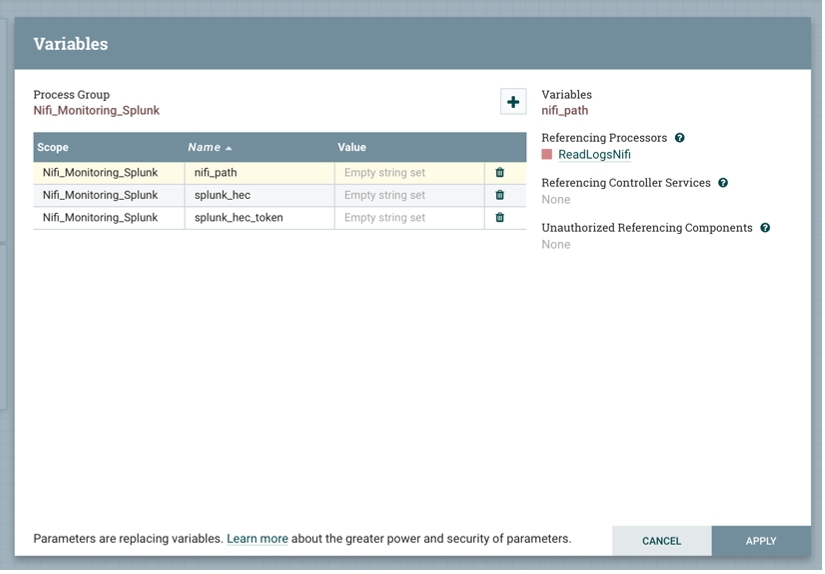
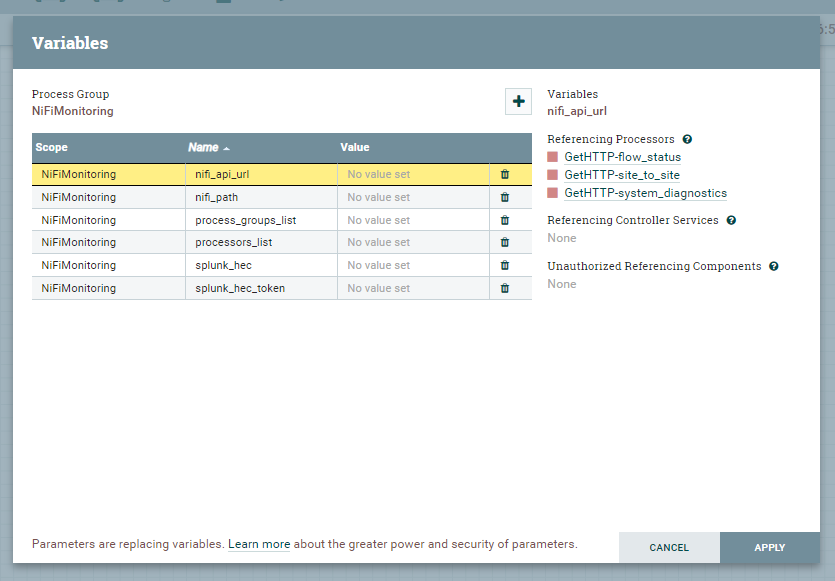
updated documentation

Changed region(s): [[0.0, 0.0, 1.0, 1.0], [0.0303, 0.0592, 0.1515, 0.0889], [0.9091, 0.9181, 0.9394, 0.9477]]

diff --git a/docs/configuration.es.md b/docs/configuration.es.md
@@ -1,28 +1,53 @@
-# Configuración de NIFI
+# Configuración de NiFi Monitoring Splunk
 
-En esta etapa se detallarán todos los pasos necesarios que se deben realizar por el lado de nuestras instancias nifi que se quieren monitorear.
+En esta etapa se detallarán los pasos necesarios para el correcto funcionamiento del aplicativo NiFi Monitoring Splunk
 
 Hay dos vías de configuración que permiten el envío de eventos a Splunk y su elección dependerá de los mecanismos de autenticación que NIFI tenga habilitado.
 
-- Envío directo: Esta configuración establecerá NIFI como la vía principal para el envío de datos a Splunk y debe ser utilizada cuando NIFI no tenga activado métodos de autenticación.
+1. Envío directo: Esta configuración establecerá NIFI como la vía principal para el envío de datos a Splunk por medio de un conjunto de procesadores y debe ser utilizada cuando NIFI no tenga activado métodos de autenticación.
 
-- Data Input NIFI: Splunk se encargará de realizar peticiones a las instancias de NIFI para rescatar la información del Monitoring API por medio de la habilitación y uso del Data Input NIFI. Esta configuración debe ser utilizada cuando NIFI cuente con autenticación basica.
+2. Splunk Data Input NiFi: Splunk se encargará de realizar peticiones a las instancias de NIFI para rescatar la información del Monitoring API por medio de la habilitación y uso del Data Input NIFI. Esta configuración debe ser utilizada cuando NIFI cuente con autenticación basica.
 
-## Carga del flujo NiFi
-El flujo nifi encargado de procesar y enviar los datos al splunk puede ser configurado de dos maneras: como un flow definition o como template.
+[NOTA] Configura sólo una metodología, ambas en funcionamiento generarán información duplicada.
 
-## NiFi Flow Definition
+## 1. Envío Directo
 
-El archivo Flow Definition es la estructura del grupo de proceso para el monitoreo de NiFi en Splunk y formato JSON el cual puede ser directamente importado.
-Descarga y utiliza esta definición para la configuración del NiFi Monitoring a través de este link [NifiMonitoring](https://github.com/kudawdev/nifi-monitoring-splunk/blob/main/template/NifiMonitoring.json)
+### Configuración de HTTP Event Collector (HEC) en Splunk
 
-## Carga del flow definition
+Se necesita la configuración de un recopilador de eventos HTTP (HEC). Esto permite enviar eventos desde las instancias de nifi a una implementación de Splunk a través de los protocolos HTTP y HTTPS.
 
-Podrás cargar el flow definition arrastrando una caja de process group al lienzo de NiFi
+Para configurar, en el menú de Splunk selecciona Settings > Data Inputs. En el listado de Local Inputs identifica HTTP Event Collector y agrega uno nuevo.
+
+En el proceso de configuración deberás:
+
+- Asignar un nombre para el data input,
+- Establecer el sourcetype en **automático**,
+- Seleccionar el *App Context* **NIFI Monitoring** y finalmente
+- Seleccionar el Index donde se almacenarán los datos.
+
+Se recomienda utilizar un Index dedicado para este monitoreo. Si no existe, deberás crearlo previo a esta configuración.
+
+Al finalizar la configuración de este Event Collector se creará un Token Value, el cual es necesario para luego configurar el envío de datos desde NIFI.
+
+Proceso de configuración:
+
+![image](/nifi-monitoring-splunk/assets/images/splunk/add_hec_1.png)
+
+![image](/nifi-monitoring-splunk/assets/images/splunk/add_hec_2.png)
+
+![image](/nifi-monitoring-splunk/assets/images/splunk/add_hec_3.png)
+
+### Importar Flow Definition en NIFI
+
+Descarga y utiliza el Flow Definition proporciado para la configuración de NiFi Monitoring a través de este link [NifiMonitoring](https://github.com/kudawdev/nifi-monitoring-splunk/blob/main/template/NifiMonitoring.json). También podrás encontrar este archivo dentro de la carpeta **flow_definition** del proyecto.
+
+El archivo Flow Definition es la estructura de un grupo de procesos encargado de recolectar y ejecutar el envío de datos de NIFI al Splunk. Está en formato JSON el cual puede ser directamente importado. 
+
+Para importar el Flow Definition, arrastra una caja de process group al lienzo de NiFi
 
 ![image](/nifi-monitoring-splunk/assets/images/nifi/1_add_process_group.png)
 
-En la ventana emergente, selecciona el ícono de importación, busca en tu equipo y selecciona el flow definition a importar.
+En la ventana emergente, selecciona el ícono de importación, busca en tu equipo y selecciona el flow definition NiFiMonitoring.json para importar.
 
 ![image](/nifi-monitoring-splunk/assets/images/nifi/2_import_flow_definition.png)
 
@@ -39,59 +64,25 @@ Finalmente, verás el grupo de procesadores y en su interior contiene la siguien
 
 ![image](/nifi-monitoring-splunk/assets/images/nifi/4_flow_definition_loaded.png)
 
-## Template
+### Configuración de variables globales
 
-Descarga y utiliza el template proporciado para la configuración de NiFi Monitoring a través de este link [NifiMonitoringTemplate](https://github.com/kudawdev/nifi-monitoring-splunk/blob/main/template/NifiMonitoringTemplate.xml). También podrás encontrar este archivo dentro de la carpeta **template** del proyecto.
-
-## Carga de template
-
-Podrás cargar el template desde la caja lateral Operate o haciendo clic derecho sobre una zona vacía y seleccionar la opción Upload template.
-
-![image](/nifi-monitoring-splunk/assets/images/nifi/add_template.png)
-
-En la ventana emergente busque en su equipo y seleccione el template que utilizará.
-
-![image](/nifi-monitoring-splunk/assets/images/nifi/upload_template.png)
-
-## Selección de Template
-
-Para utilizar el template que fue previamente cargado, arrastre del menú la opción template a la hoja de trabajo. Se abrirá una ventana emergente y seleccione el template a utilizar.
-
-![image](/nifi-monitoring-splunk/assets/images/nifi/select_template.png)
-
-![image](/nifi-monitoring-splunk/assets/images/nifi/choose_template.png)
-
-El template desplegado debe tener la siguiente estructura:
-
-- La primera vista contiene Nifi_Monitoring_Splunk
-
-![image](/nifi-monitoring-splunk/assets/images/nifi/nifi_monitoring_process_group.png)
-
-En su interior contiene la siguiente estructura:
-
--	Ingesta API
--	Ingesta Logs
--	Ingesta ReportingTask
-
-![image](/nifi-monitoring-splunk/assets/images/nifi/nifi_monitoring_process_group_2.png)
-
-
-## Configuración de variables globales
-
-Es fundamental configurar las variables globales ya que son indispensable para su funcionamiento. Para configurar los parámetros haga clic derecho sobre la caja Nifi_Monitoring_Splunk > Variables.
+Configura las variables globales ya que son indispensable para su funcionamiento. Para configurar los parámetros haz clic derecho sobre la caja NiFIMonitoring > Variables.
 
 ![image](/nifi-monitoring-splunk/assets/images/nifi/set_variable.png)
 
-Se desplegará una ventana emergente donde tendrá que configurar los siguientes parámetros:
+Se desplegará una ventana emergente donde tendrás que configurar los siguientes parámetros:
 
-- nifi_path: Corresponde a la ruta de instalación del servidor nifi (en caso de cluster debe estar instalado en la misma ruta en cada nodo). Ejemplo: /home/nifi/nifi-1.10.0/
-- splunk_hec: Es la dirección del servidor splunk donde se configuró el data input HTTP Event Collector. Ejemplo: 127.0.0.1:8088
+- nifi_api_url: Corresponde a la ruta del API Rest de NIFI, (Ej: http://127.0.0.1:8080/nifi-api)
+- nifi_path: Corresponde a la ruta de instalación del servidor nifi (en caso de cluster debe estar instalado en la misma ruta en cada nodo). (Ej: /home/nifi/nifi-1.10.0/)
+- process_groups_list: Listado de **IDs** de los grupos de procesos que se necesitan monitorear.
+- processors_list: Listado de **IDs** de los procesadores que se necesitan monitorear.
+- splunk_hec: Es la dirección del servidor splunk donde se configuró el data input HTTP Event Collector. (Ej: http://splunk1:8088/)
 - splunk_hec_token: Token obtenido al configurar [HTTP Event Collector](/nifi-monitoring-splunk/es/installation/#configuracion-de-http-event-collector-hec).
 
 ![image](/nifi-monitoring-splunk/assets/images/nifi/set_variable_2.png)
 
 
-## Configuración de componentes
+### Configuración de componentes
 
 Posterior a la configuración de las variables es necesario crear los siguientes componentes. Para configurar accede a Nifi Settings desde el menú > controller Settings
 
@@ -150,11 +141,11 @@ Configura los reporting task con la siguiente información:
 
 ![image](/nifi-monitoring-splunk/assets/images/nifi/metrics_reporting_task.png)
 
-Una vez configurados los reporting task deberá iniciar la ejecución haciendo click start (►) en cada uno de ellos.
+Una vez configurados los reporting task deberás iniciar la ejecución haciendo click start (►) en cada uno de ellos.
 
 ![image](/nifi-monitoring-splunk/assets/images/nifi/nifi_settings_4.png)
 
-## Habilitación del envío de datos
+### Habilitación del envío de datos
 
 Luego de haber completado todo el proceso de configuración, inicie la ejecución del grupo de procesos. Haga clic derecho sobre el grupo de procesos y luego en Start.
 
@@ -164,29 +155,7 @@ Luego de haber completado todo el proceso de configuración, inicie la ejecució
 
 Sí toda la configuración se ejecutó de manera correcta, se iniciará el envío de la información a Splunk. Para que los datos enviados a splunk estén accesibles desde la aplicación deberá haber configurado el [Lookup de Instancias](/nifi-monitoring-splunk/es/installation/#configuracion-de-lookup-nifi-instances)
 
-## Configuración de Data Input NIFI
-
-Para configurar el Data Input Nifi tiene que haber completado la carga y selección de template, Configuración de Variables y Configuración de Componentes.
-
-Si finalizó el paso Habilitación del Envío de Datos o si el grupo de procesos está en ejecución, deberá detenerlo. Para ello, haz clic derecho sobre el grupo de procesos y luego en Stop. Esta acción detendrá el envío de información a Splunk
-
-![image](/nifi-monitoring-splunk/assets/images/nifi/disable_sending_data.png)
-
-### Deshabilitación del grupo de procesos Monitoring – API
-Haz doble clic sobre el grupo y deberá ver la siguiente vista
-
-![image](/nifi-monitoring-splunk/assets/images/nifi/disable_monitoring_api.png)
-
-Para deshabilitar Monitoring API, haz clic derecho sobre la primera caja y luego clic en Disable, el componente deberá verse así:
-
-![image](/nifi-monitoring-splunk/assets/images/nifi/disable_monitoring_api_2.png)
-
-Una vez deshabilitado, regresa a la vista anterior. Haz clic derecho sobre una zona vacía y luego en leave group o en la banda inferior en NiFi Flow.
-
-
-![image](/nifi-monitoring-splunk/assets/images/nifi/leave_group.png)
-
-### Configuración del Data Input Nifi - Splunk
+## 2. Configuración del Data Input Nifi en Splunk
 
 *Esta configuración debe ser aplicada cuando las instancias de NIFI cuenten con almenos autenticación básica*
 
@@ -214,3 +183,56 @@ Se desplegará el siguiente formulario. Marque la casilla More settings para hab
 - Interval: Tiempo en segundos en el que se realizarán las peticiones para extraer la información.
 - Host: Nombre del host de nifi, el cual debe corresponder a lo definido en el Lookup de Configuraciones. [Ver Lookup de Instancias](/nifi-monitoring-splunk/es/installation/#configuracion-de-lookup-nifi-instances)
 - Index: Index de destinto para esta fuente de datos. Se recomienda un index dedicado, por ejemplo: nifi. Si no existe, deberá crearlo previamente.
+
+
+
+
+
+==============================================================
+
+## Configuración transversal de Lookup NIFI Instances
+
+Es fundamental la configuración del lookup mantenedor de instancias monitoreadas. La etiqueta cluster es para asociar un grupo de nodos y host es el nombre de la instancia.
+Este paso es muy importante para la correcta operación de la aplicación ya que si un nuevo nodo nifi no es actualizado en la tabla de instancias no se mostrará la información respectiva.
+
+![image](/nifi-monitoring-splunk/assets/images/splunk/lookup_1.png)
+
+Para obtener el nombre del host, puede ejecutar la siguiente búsqueda con un rango de tiempo de últimos 60 minutos. Para que esta búsqueda retorne resultados, los procesos de Nifi deben estar ejecutándose correctamente. [¿Cómo ejecutar un proceso NIFI?](/nifi-monitoring-splunk/es/configuration/#habilitacion-del-envio-de-datos)
+
+**Splunk Query**  
+```sourcetype=nifi* | dedup host | table host ```
+
+El resultado de esta búsqueda retornará el listado de host que deben ser configurados en el lookup.
+
+![image](/nifi-monitoring-splunk/assets/images/splunk/sourcetype_search.png)
+
+Si el lookup está correctamente configurado la información podrá ser accesible desde el panel Overview.
+
+![image](/nifi-monitoring-splunk/assets/images/splunk/nifi_overview_lookup.png)
+
+
+
+
+
+
+
+
+
+
+
+======================
+
+### Deshabilitación del grupo de procesos Monitoring – API
+Haz doble clic sobre el grupo y deberá ver la siguiente vista
+
+![image](/nifi-monitoring-splunk/assets/images/nifi/disable_monitoring_api.png)
+
+Para deshabilitar Monitoring API, haz clic derecho sobre la primera caja y luego clic en Disable, el componente deberá verse así:
+
+![image](/nifi-monitoring-splunk/assets/images/nifi/disable_monitoring_api_2.png)
+
+Una vez deshabilitado, regresa a la vista anterior. Haz clic derecho sobre una zona vacía y luego en leave group o en la banda inferior en NiFi Flow.
+
+
+![image](/nifi-monitoring-splunk/assets/images/nifi/leave_group.png)
+

diff --git a/docs/installation.es.md b/docs/installation.es.md
@@ -1,6 +1,6 @@
-# Instalación y Configuración de NIFI Monitoring APP
+# Instalación de NIFI Monitoring APP
 
-Es esta sección se detallarán los pasos necesarios requeridos para instalar y configurar la aplicación NIFI Monitoring en Splunk
+Es esta sección se detallarán los pasos necesarios requeridos para instalar la aplicación NIFI Monitoring en Splunk
 
 ## Instalación de NIFI Monitoring APP
 
@@ -28,48 +28,3 @@ Para instalar debe contar con el archivo NIFI_TA_Monitoring_<version\>.tar.gz e 
 Luego de la instalación se dispondrá de todos los objetos que permiten la indexación de datos.
 
 ![image](/nifi-monitoring-splunk/assets/images/splunk/ta_objects.png)
-
-## Configuración de HTTP Event Collector (HEC)
-
-Es fundamental incorporar la configuración de un recopilador de eventos HTTP (HEC). Esto permite enviar eventos desde las instancias de nifi a una implementación de Splunk a través de los protocolos HTTP y HTTPS.
-
-Para configurar, en el menú de Splunk selecciona Settings > Data Inputs. En el listado de Local Inputs identifica HTTP Event Collector y agrega uno nuevo.
-
-En el proceso de configuración deberás:
-
-- Asignar un nombre para el data input,
-- Establecer el sourcetype en **automático**,
-- Seleccionar el *App Context* **NIFI Monitoring** y finalmente
-- Seleccionar el Index donde se almacenarán los datos.
-
-Se recomienda utilizar un Index dedicado, por ejemplo, nifi. Si no existe, deberás crearlo previo a esta configuración.
-
-Al finalizar la configuración de este Event Collector se creará un Token Value, el cual es necesario para luego configurar el envío de datos desde NIFI.
-
-Proceso de configuración:
-
-![image](/nifi-monitoring-splunk/assets/images/splunk/add_hec_1.png)
-
-![image](/nifi-monitoring-splunk/assets/images/splunk/add_hec_2.png)
-
-![image](/nifi-monitoring-splunk/assets/images/splunk/add_hec_3.png)
-
-## Configuración de Lookup NIFI Instances
-
-Es fundamental la configuración del lookup mantenedor de instancias monitoreadas. La etiqueta cluster es para asociar un grupo de nodos y host es el nombre de la instancia.
-Este paso es muy importante para la correcta operación de la aplicación ya que si un nuevo nodo nifi no es actualizado en la tabla de instancias no se mostrará la información respectiva.
-
-![image](/nifi-monitoring-splunk/assets/images/splunk/lookup_1.png)
-
-Para obtener el nombre del host, puede ejecutar la siguiente búsqueda con un rango de tiempo de últimos 60 minutos. Para que esta búsqueda retorne resultados, los procesos de Nifi deben estar ejecutándose correctamente. [¿Cómo ejecutar un proceso NIFI?](/nifi-monitoring-splunk/es/configuration/#habilitacion-del-envio-de-datos)
-
-**Splunk Query**  
-```sourcetype=nifi* | dedup host | table host ```
-
-El resultado de esta búsqueda retornará el listado de host que deben ser configurados en el lookup.
-
-![image](/nifi-monitoring-splunk/assets/images/splunk/sourcetype_search.png)
-
-Si el lookup está correctamente configurado la información podrá ser accesible desde el panel Overview.
-
-![image](/nifi-monitoring-splunk/assets/images/splunk/nifi_overview_lookup.png)
